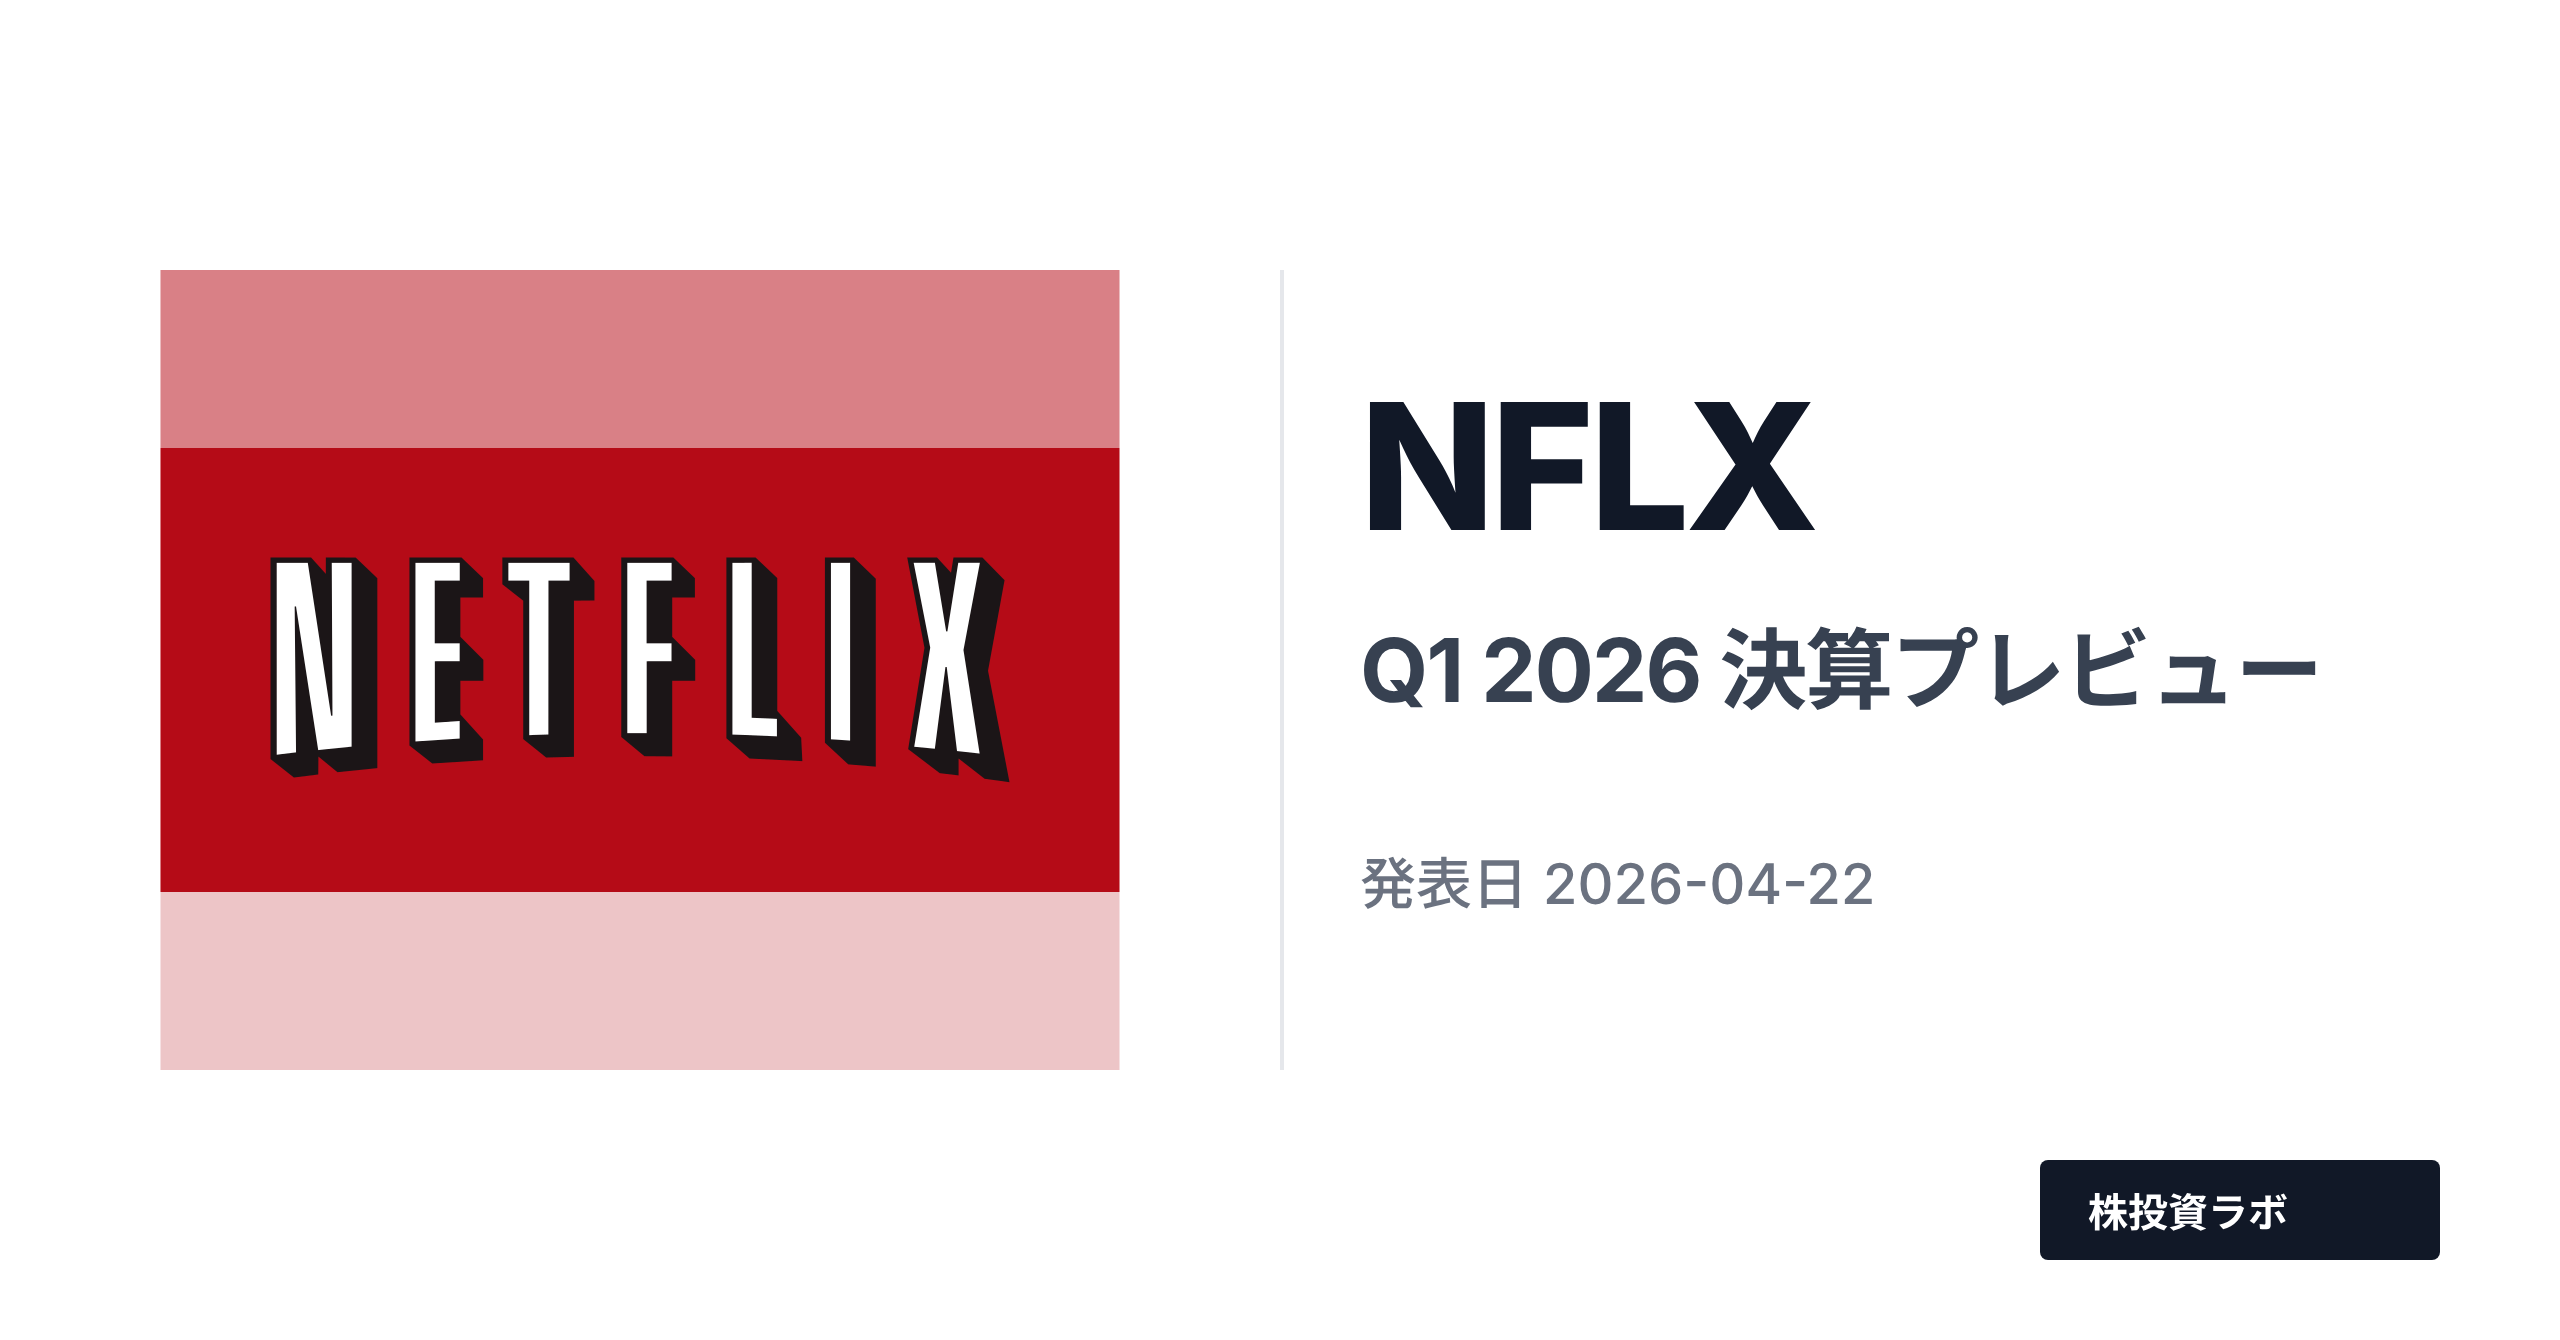
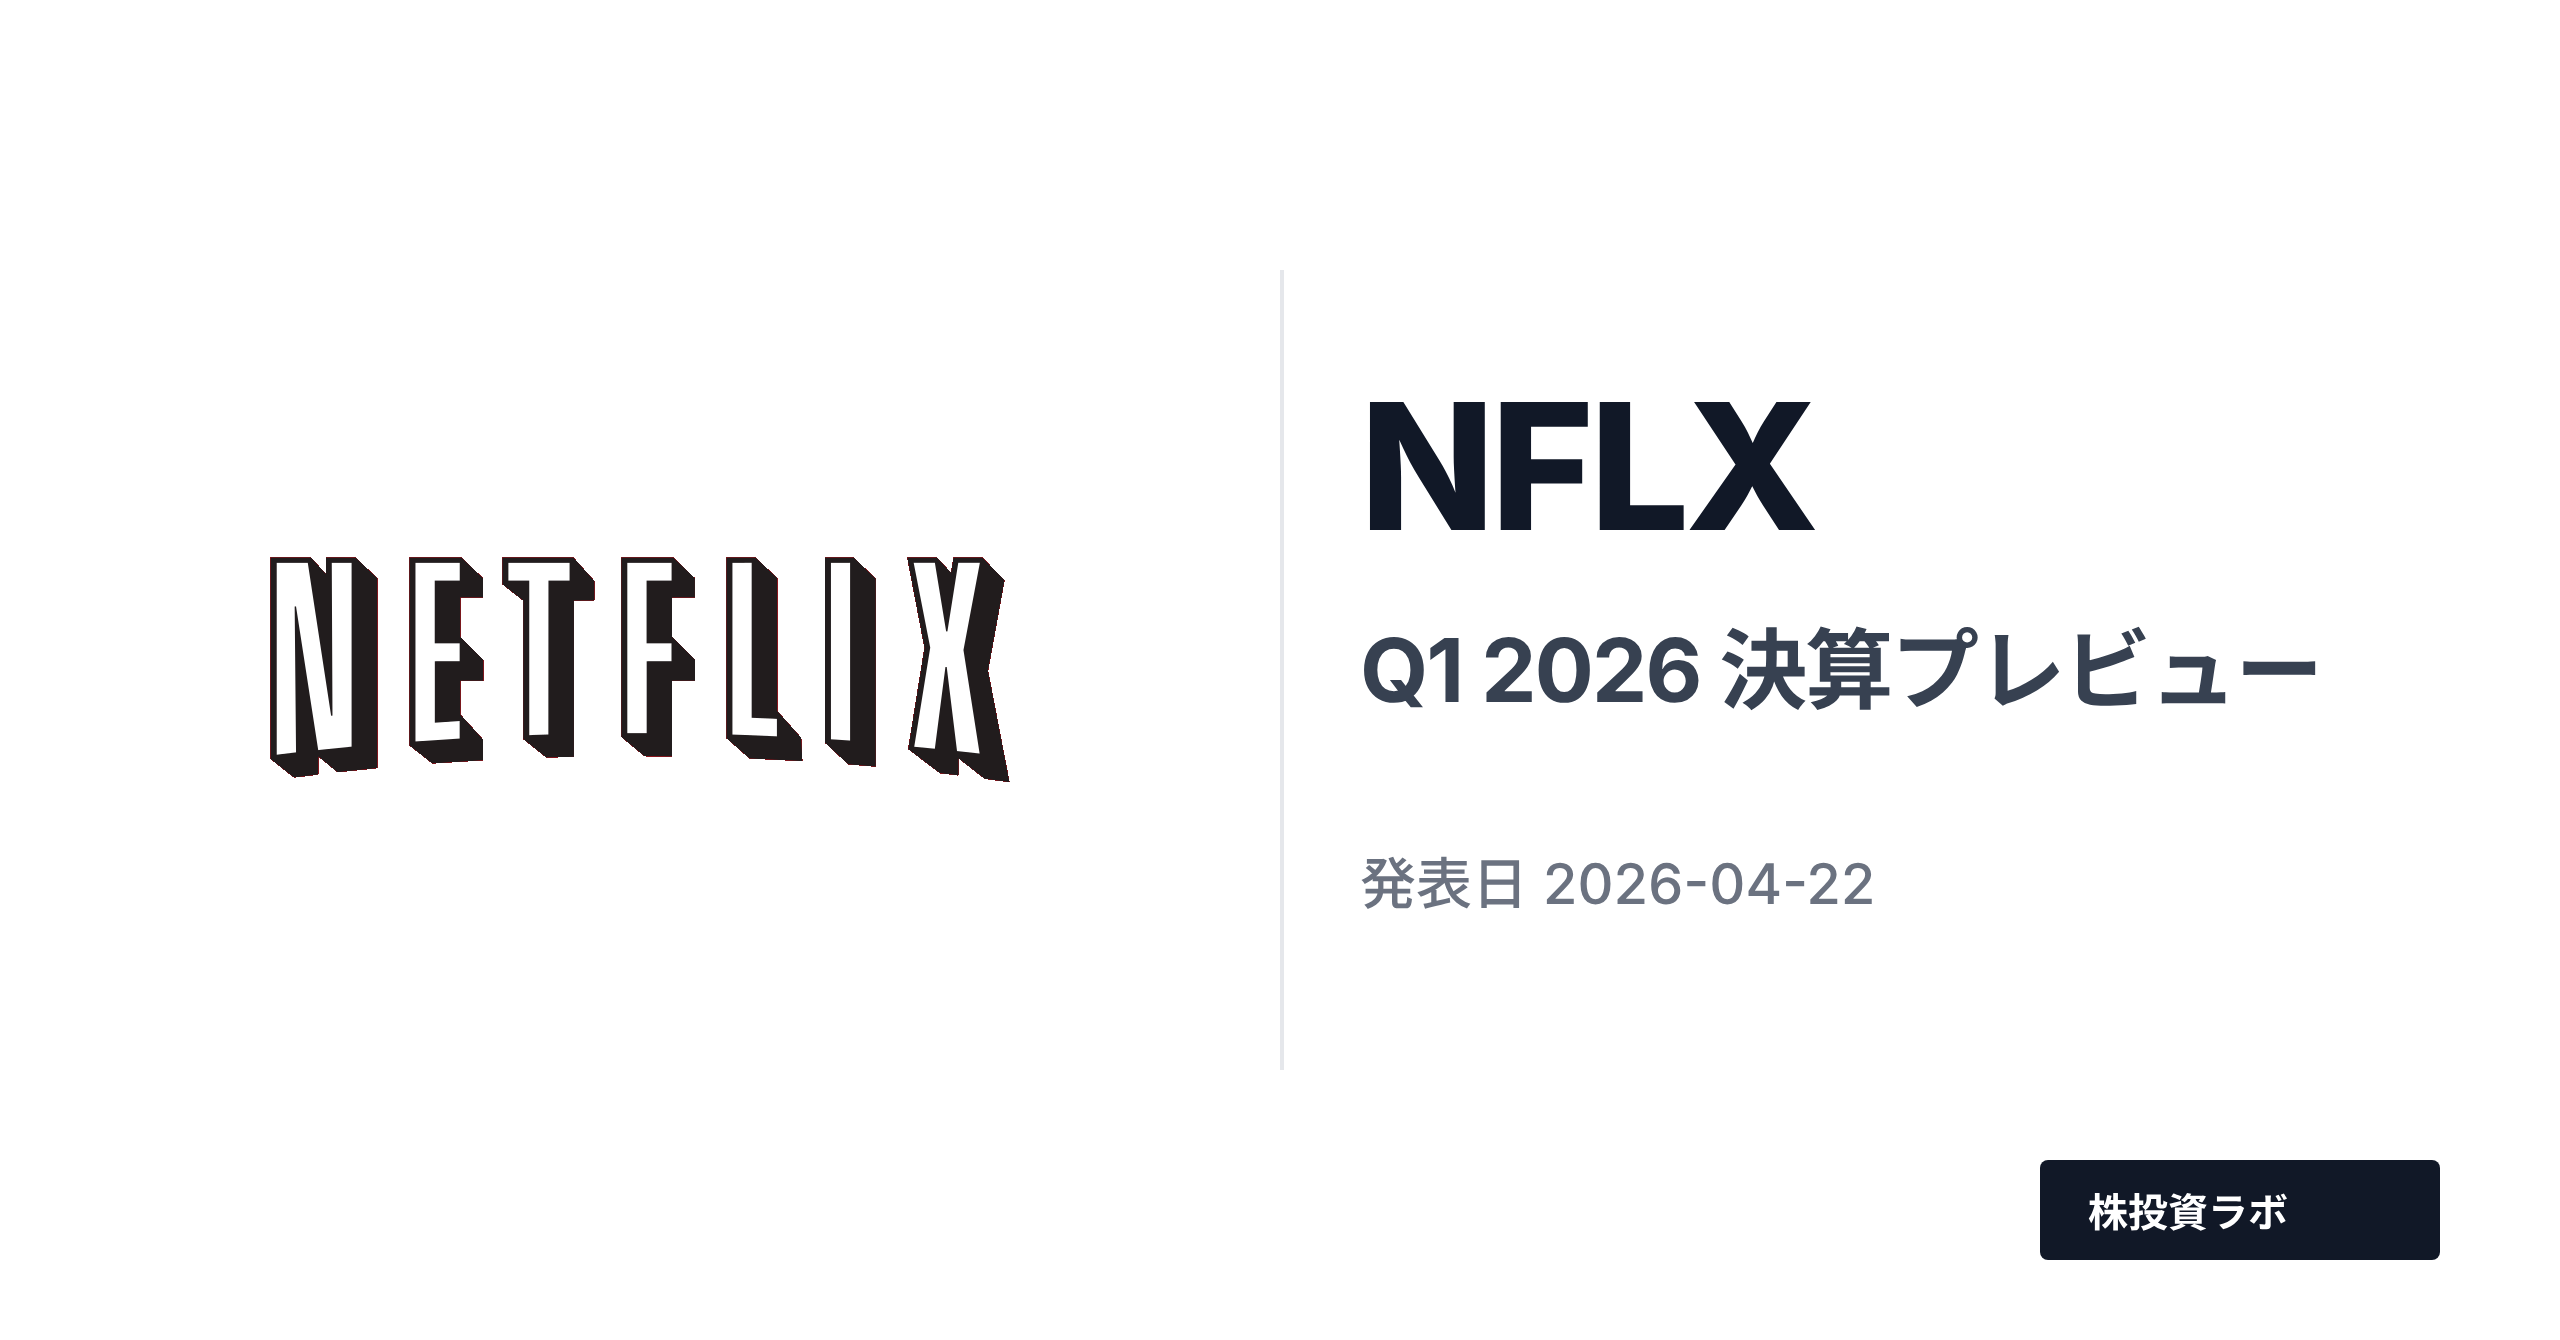
feat(earnings): Wikidata企業ロゴ取得スクリプト追加 + NASログ更新
- scripts/fetch_company_logo.py: Wikidata P154経由で企業ロゴを取得・キャッシュするスクリプト新規追加（65行）
- assets/company_logos/NFLX.png: NFLXロゴを最新版に更新
- articles/earnings/2026-04-15_nflx-q1-2026-earnings-preview/images/thumbnail.png: NFLXサムネイル画像を更新
- logs/sync-nas.log: 2026-04-15 NAS同期ログ追記

Changed region(s): [[0.0625, 0.1836, 0.4375, 0.7955]]

diff --git a/scripts/fetch_company_logo.py b/scripts/fetch_company_logo.py
@@ -25,6 +25,7 @@ CLI:
 # dependencies = [
 #     "requests>=2.31",
 #     "pyyaml>=6.0",
+#     "Pillow>=10.0",
 # ]
 # ///
 
@@ -77,6 +78,61 @@ def _wikidata_logo_filename(session: requests.Session, qid: str) -> str | None:
     if not p154:
         return None
     return p154[0]["mainsnak"]["datavalue"]["value"]
+
+
+def _remove_solid_background(path: Path, threshold: int = 40) -> bool:
+    """PNGの四隅から検出した単色背景を透過化する（Netflix赤背景等の対策）.
+
+    Parameters
+    ----------
+    path : Path
+        処理対象のPNGファイル（上書き保存される）
+    threshold : int
+        背景色とみなすRGB許容差（デフォルト40）
+
+    Returns
+    -------
+    bool
+        処理が成功した場合 True。画像でない場合やエラー時は False
+    """
+    try:
+        from PIL import Image
+    except ImportError:
+        logger.warning("Pillow not installed; skipping background removal")
+        return False
+
+    try:
+        img = Image.open(path).convert("RGBA")
+    except Exception as e:
+        logger.warning("Failed to open image for bg removal: %s", e)
+        return False
+
+    width, height = img.size
+    pixels = img.load()
+    corners = [pixels[0, 0], pixels[width - 1, 0], pixels[0, height - 1], pixels[width - 1, height - 1]]
+    br = sum(c[0] for c in corners) // 4
+    bg = sum(c[1] for c in corners) // 4
+    bb = sum(c[2] for c in corners) // 4
+
+    # 四隅の平均アルファが低ければ既に透過済みとみなしスキップ
+    avg_alpha = sum(c[3] for c in corners) // 4
+    if avg_alpha < 50:
+        logger.debug("Logo already has transparent corners; skipping bg removal")
+        return True
+
+    removed = 0
+    for y in range(height):
+        for x in range(width):
+            r, g, b, a = pixels[x, y]
+            if abs(r - br) < threshold and abs(g - bg) < threshold and abs(b - bb) < threshold:
+                pixels[x, y] = (r, g, b, 0)
+                removed += 1
+    img.save(path)
+    logger.info(
+        "Background removed: detected rgb(%d,%d,%d), transparent %d/%d pixels (%d%%)",
+        br, bg, bb, removed, width * height, removed * 100 // (width * height),
+    )
+    return True
 
 
 def _download_logo(session: requests.Session, filename: str, dest: Path) -> bool:
@@ -196,6 +252,7 @@ def fetch_company_logo(
     company_name: str,
     output_path: Path | None = None,
     force_refresh: bool = False,
+    remove_background: bool = False,
 ) -> Path | None:
     """企業ロゴをWikidata P154経由で取得しローカルキャッシュに保存.
 
@@ -266,6 +323,8 @@ def fetch_company_logo(
         logger.info("Found logo filename: %s", filename)
 
         if _download_logo(session, filename, dest):
+            if remove_background:
+                _remove_solid_background(dest)
             return dest
 
     logger.error("Failed to fetch logo: ticker=%s company=%s", ticker_norm, company_name)
@@ -297,6 +356,11 @@ def main() -> int:
     parser.add_argument("--meta-yaml", type=Path, help="meta.yamlから ticker/company を自動解決")
     parser.add_argument("--output", type=Path, help="出力先PNGパス")
     parser.add_argument("--force-refresh", action="store_true", help="キャッシュを無視して再取得")
+    parser.add_argument(
+        "--remove-background",
+        action="store_true",
+        help="取得後、四隅から検出した単色背景を透過化（Netflix赤背景対策）",
+    )
     parser.add_argument("--log-level", default="INFO")
     args = parser.parse_args()
 
@@ -317,6 +381,7 @@ def main() -> int:
         company_name=company,
         output_path=args.output,
         force_refresh=args.force_refresh,
+        remove_background=args.remove_background,
     )
     if not path:
         return 1
